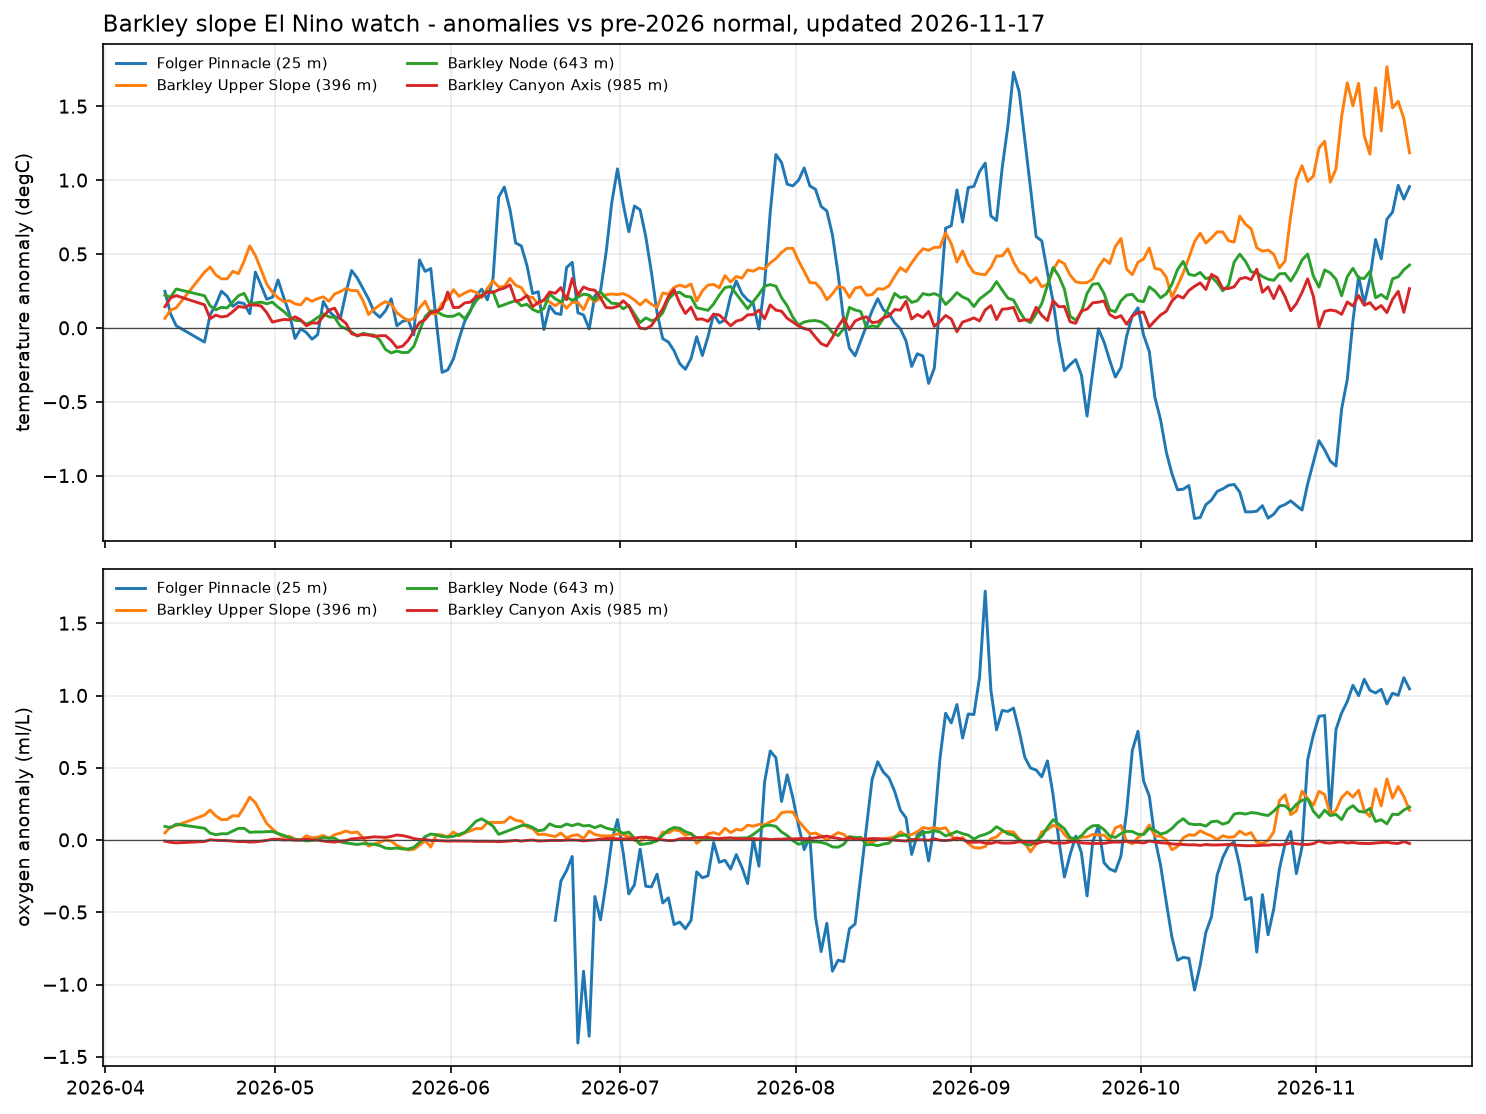
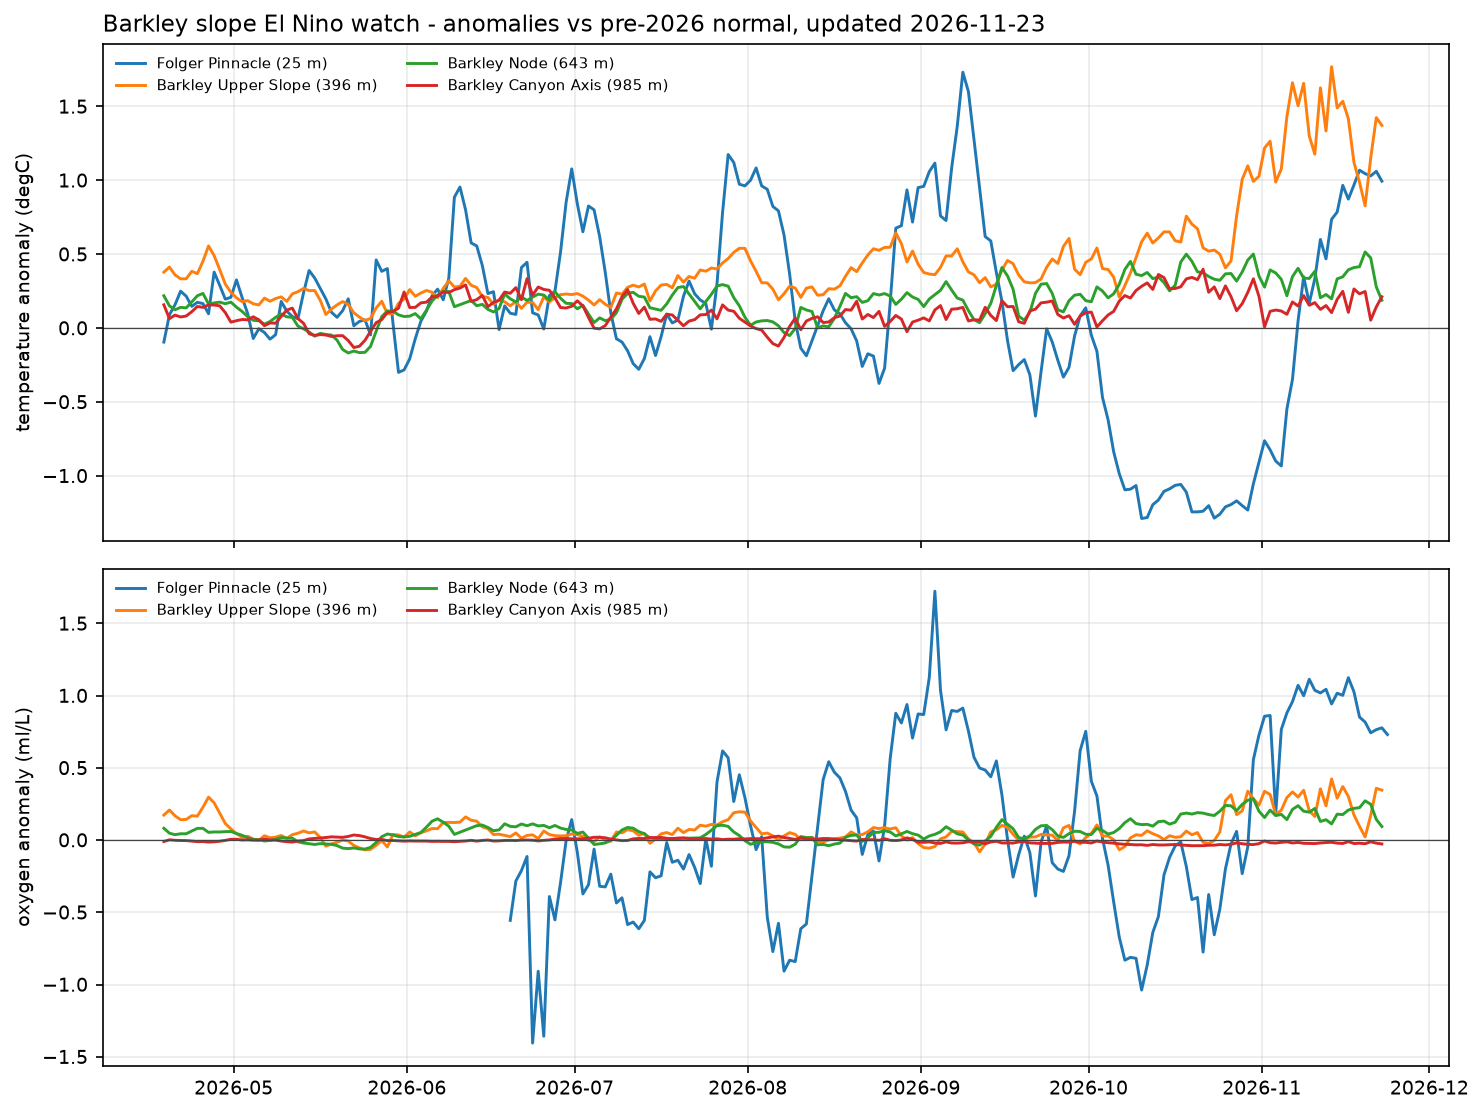
Weekly update 2026-11-23

diff --git a/docs/index.html b/docs/index.html
@@ -10,13 +10,13 @@ img{width:100%;height:auto;border:1px solid #eee;margin:.4rem 0} .k{background:#
 footer{color:#888;font-size:.8rem;margin-top:2rem;border-top:1px solid #eee;padding-top:.6rem}
 </style></head><body>
 <h1>Barkley Slope El Nino Watch</h1>
-<p class=sub>Ocean Networks Canada cabled records, southwest Vancouver Island. Updated 2026-11-17 (UTC). ONI/RONI: RONI ASO 2026 = 1.97.</p>
+<p class=sub>Ocean Networks Canada cabled records, southwest Vancouver Island. Updated 2026-11-23 (UTC). ONI/RONI: RONI ASO 2026 = 1.97.</p>
 <div class=k><b>The story.</b> The 2026 El Nino is reaching Vancouver Island <b>through the ocean, not the air</b>:
 the surface stays near normal while the Barkley slope at 396 m turns warmer, fresher, lighter and more oxygen-rich -
 the fingerprint of density surfaces pushed down ~50-100 m by a coastally trapped wave from the tropics.
 The same response, smaller, appeared in 2023, so it is repeatable and can be anticipated.</div>
 <h2>This week</h2>
-<table><tr><th>Site</th><th>Depth</th><th>Temperature anomaly</th><th>Oxygen anomaly</th></tr><tr><td>Folger Pinnacle</td><td>25 m</td><td>-0.47 (-0.5 sd, rising)</td><td>+0.44 (+0.6 sd, rising)</td></tr><tr><td>Barkley Upper Slope</td><td>396 m</td><td>+1.08 (+5.0 sd, rising)</td><td>+0.22 (+1.5 sd, rising)</td></tr><tr><td>Barkley Node</td><td>643 m</td><td>+0.35 (+2.9 sd, rising)</td><td>+0.20 (+3.9 sd, rising)</td></tr><tr><td>Barkley Canyon Axis</td><td>985 m</td><td>+0.20 (+2.2 sd, rising)</td><td>-0.02 (-1.5 sd, flat)</td></tr></table>
+<table><tr><th>Site</th><th>Depth</th><th>Temperature anomaly</th><th>Oxygen anomaly</th></tr><tr><td>Folger Pinnacle</td><td>25 m</td><td>-0.11 (-0.1 sd, rising)</td><td>+0.68 (+0.9 sd, rising)</td></tr><tr><td>Barkley Upper Slope</td><td>396 m</td><td>+1.16 (+5.3 sd, rising)</td><td>+0.25 (+1.7 sd, rising)</td></tr><tr><td>Barkley Node</td><td>643 m</td><td>+0.35 (+2.8 sd, rising)</td><td>+0.20 (+4.0 sd, rising)</td></tr><tr><td>Barkley Canyon Axis</td><td>985 m</td><td>+0.18 (+1.9 sd, falling)</td><td>-0.02 (-1.3 sd, flat)</td></tr></table>
 <p class=sub>Anomaly = latest 30-day mean minus the pre-2026 harmonic climatology; "sd" is the pre-2026 residual spread.</p>
 <h2>Live figure</h2>
 <img src="fig_watch.png" alt="anomaly watch">
